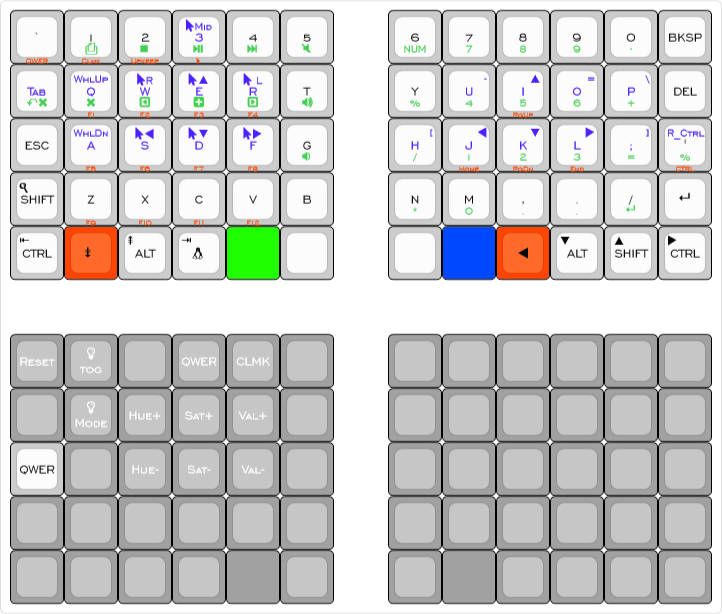
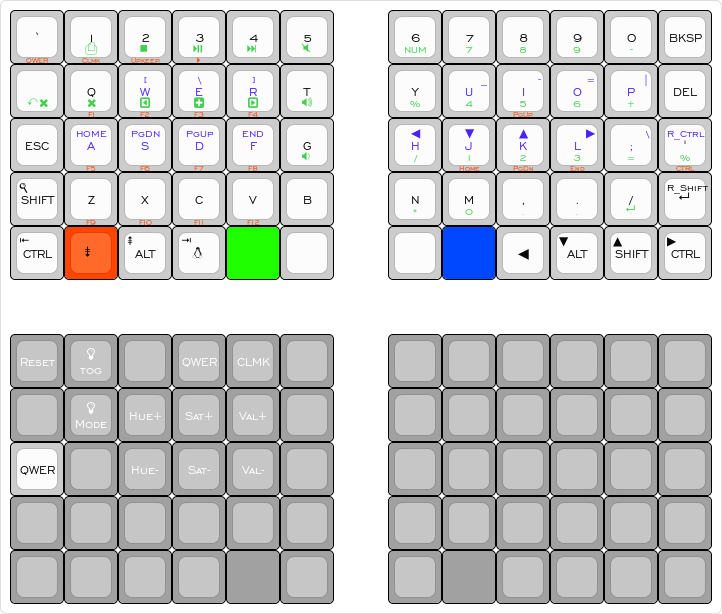
Updated raise layer with more useful brackets. Updated image

diff --git a/keyboards/nyquist/keymaps/james/keymap.c b/keyboards/nyquist/keymaps/james/keymap.c
@@ -129,6 +129,7 @@ const uint16_t PROGMEM keymaps[][MATRIX_ROWS][MATRIX_COLS] = {
  * |      |      |      |      |      |      |  |      |      |      |      |      | RCTRL|
  * `-----------------------------------------+  +-----------------------------------------'
  */
+ // TODO Figure out macro for D key, want it to do ctrl-L then % then space (so it searches open tabs in FF)
 [_LOWER] = KEYMAP( \
   _______, KC_PSCR, KC_MSTP, KC_MPLY,  KC_MNXT, KC_MUTE, KC_NLCK, KC_P7,   KC_P8,   KC_P9,  KC_PMNS, KC_BSPC, \
   LCTL(LSFT(KC_T)), LCTL(KC_W), LCTL(LSFT(KC_TAB)), LCTL(KC_T),  LCTL(KC_TAB), KC_VOLU, KC_PERC, KC_P4,   KC_P5,   KC_P6,   KC_PPLS, KC_DEL, \
@@ -154,9 +155,9 @@ const uint16_t PROGMEM keymaps[][MATRIX_ROWS][MATRIX_COLS] = {
  */
 [_RAISE] = KEYMAP( \
   _______,  _______,  _______,    _______,    _______,    _______,    _______,    _______,    _______,    _______,   _______,   _______, \
-  _______,  _______,  KC_BSLASH,  KC_PIPE,    _______,    _______,    KC_UNDS,    KC_MINS,    KC_PLUS,    KC_EQL,    KC_BSLS,    _______, \
-  _______,  KC_HOME,  KC_PGDN,    KC_PGUP,    KC_END,     KC_LBRC,    KC_RBRC,    KC_LEFT,    KC_DOWN,    KC_UP,     KC_RIGHT,   KC_RCTRL, \
-  _______,  _______,  _______,    _______,    _______,    _______,    _______,    _______,    _______,    _______,   _______,   _______, \
+  _______,  _______,  KC_LBRC,    KC_BSLS,    KC_RBRC,    _______,    KC_UNDS,    KC_MINS,    KC_PLUS,    KC_EQL,    KC_PIPE,   _______, \
+  _______,  KC_HOME,  KC_PGDN,    KC_PGUP,    KC_END,     _______,    KC_LEFT,    KC_DOWN,    KC_UP,      KC_RIGHT,  KC_BSLASH,  KC_RCTRL, \
+  _______,  _______,  _______,    _______,    _______,    _______,    _______,    _______,    _______,    _______,   _______,   KC_RSFT, \
   _______,  _______,  _______,    _______,    _______,    _______,    _______,    _______,    _______,    _______,   _______,   _______ \
 ),
 
